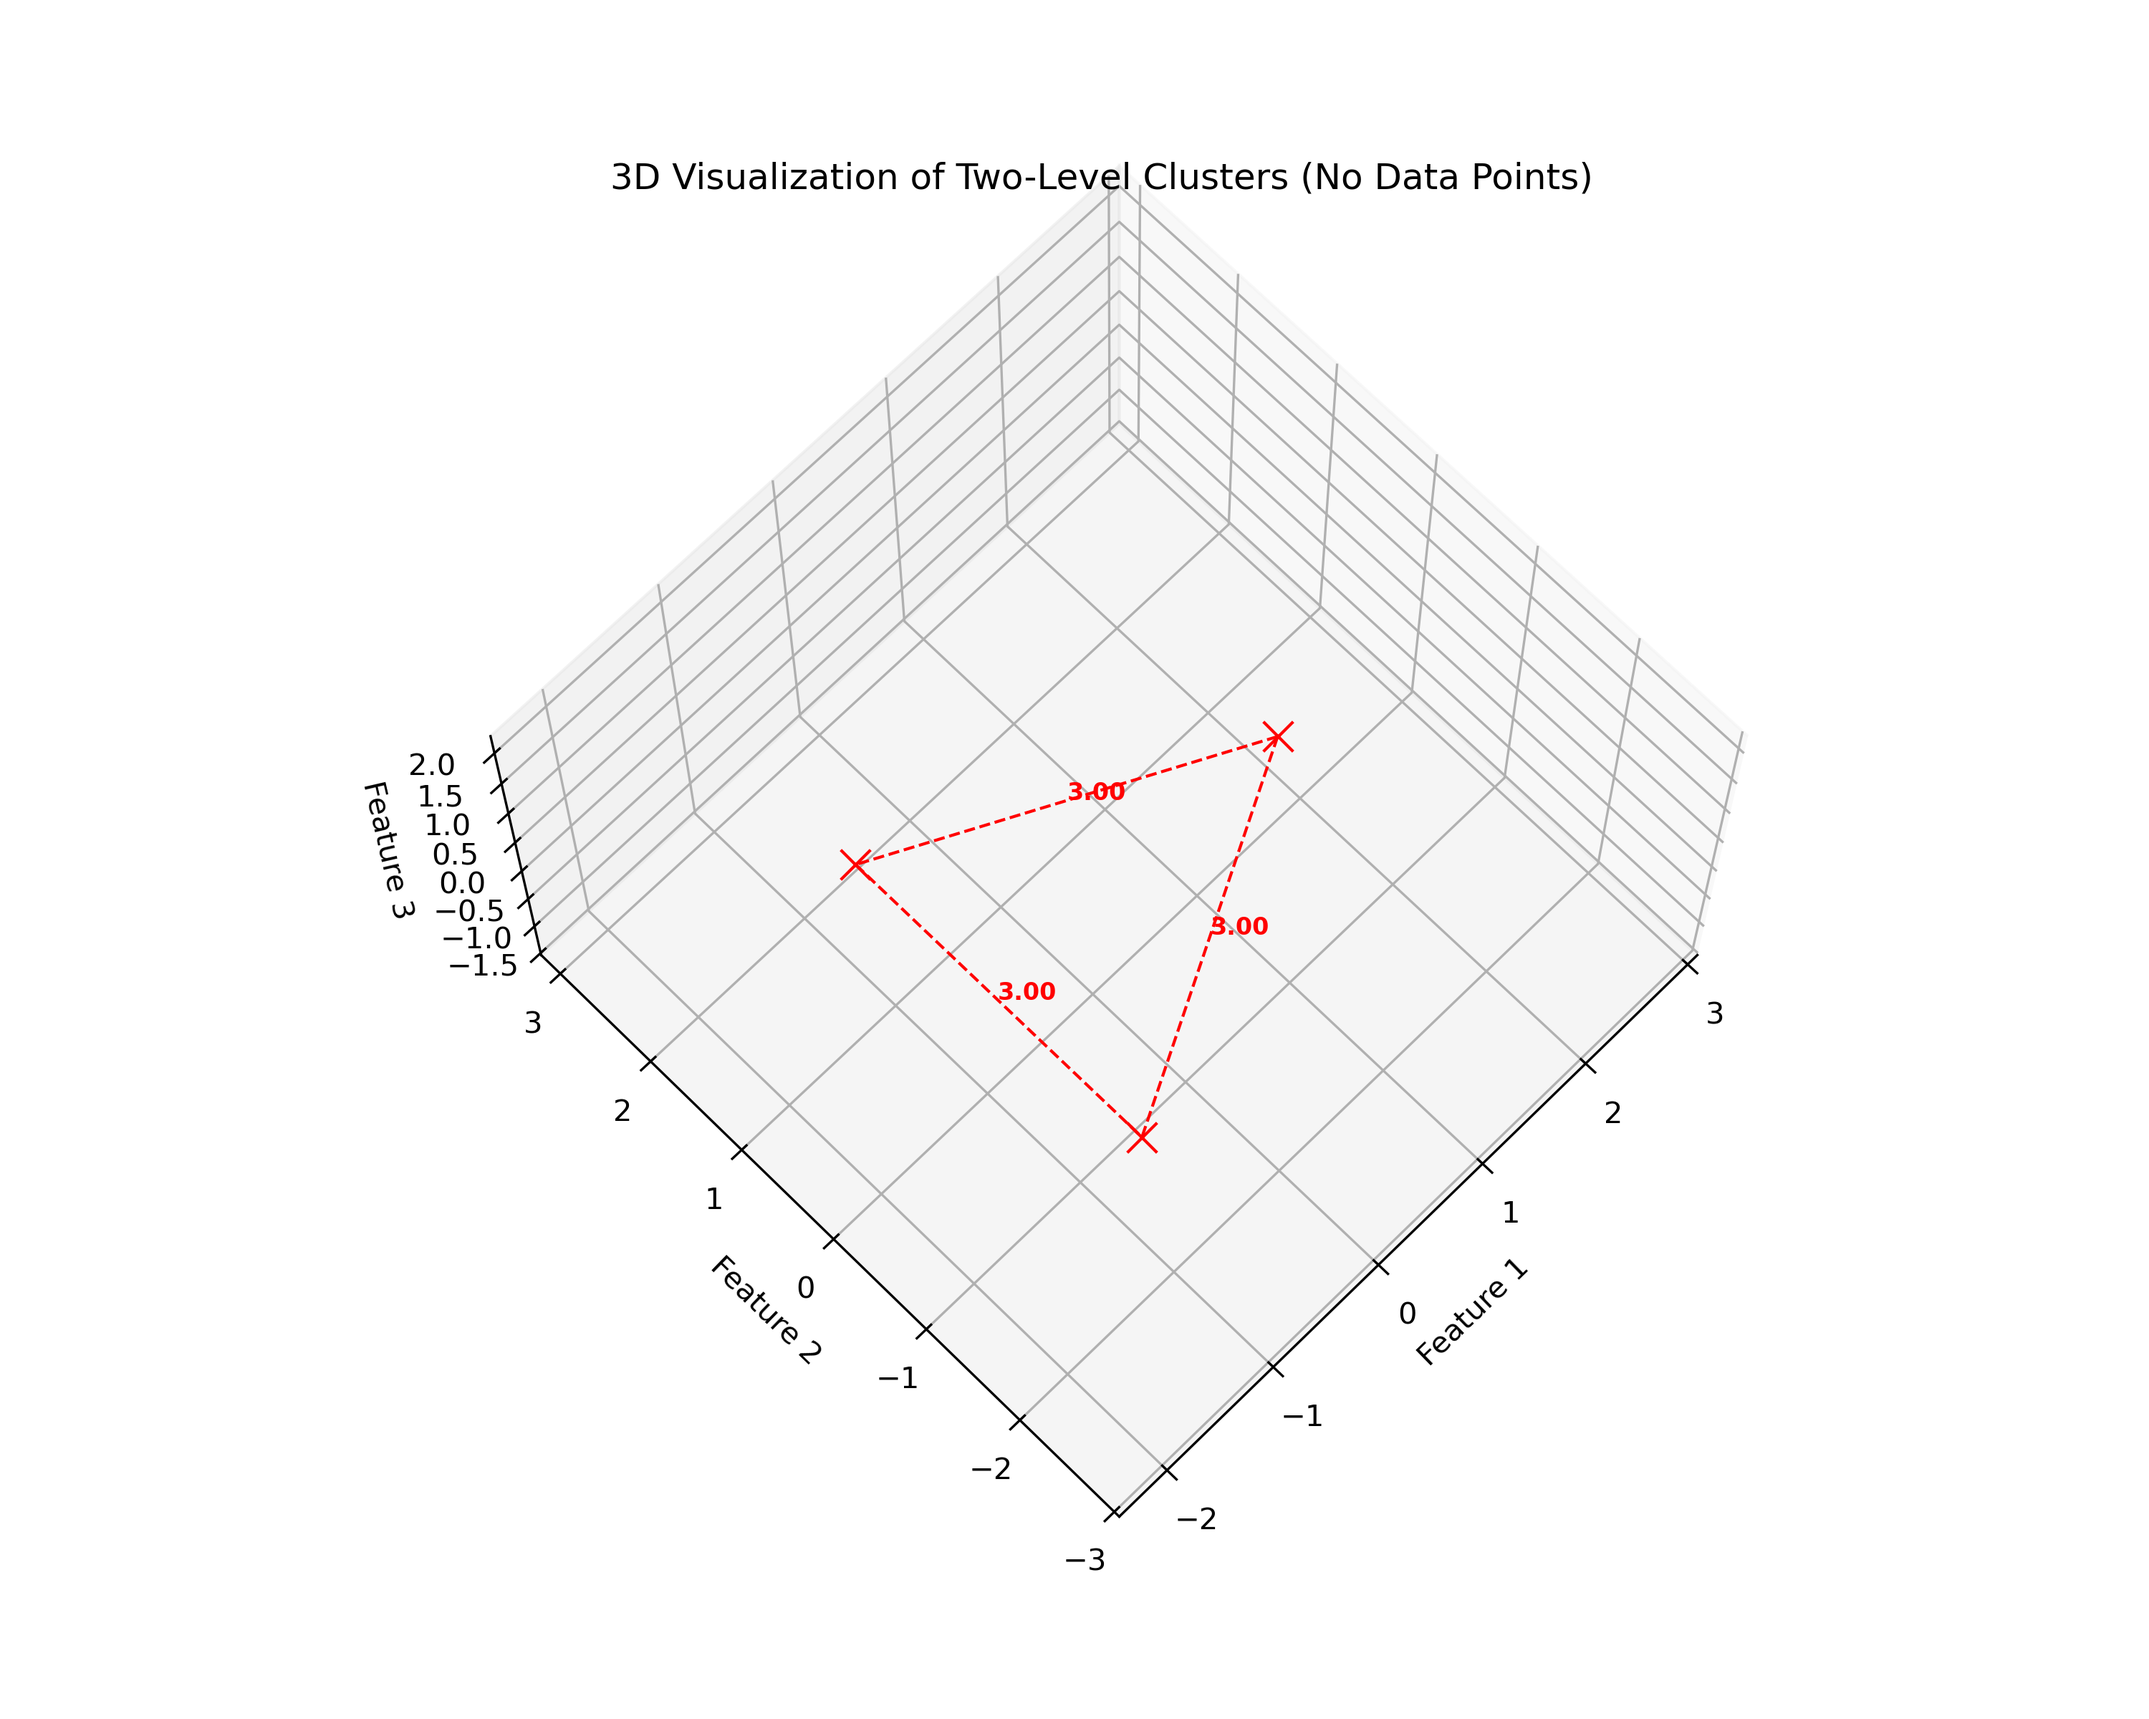
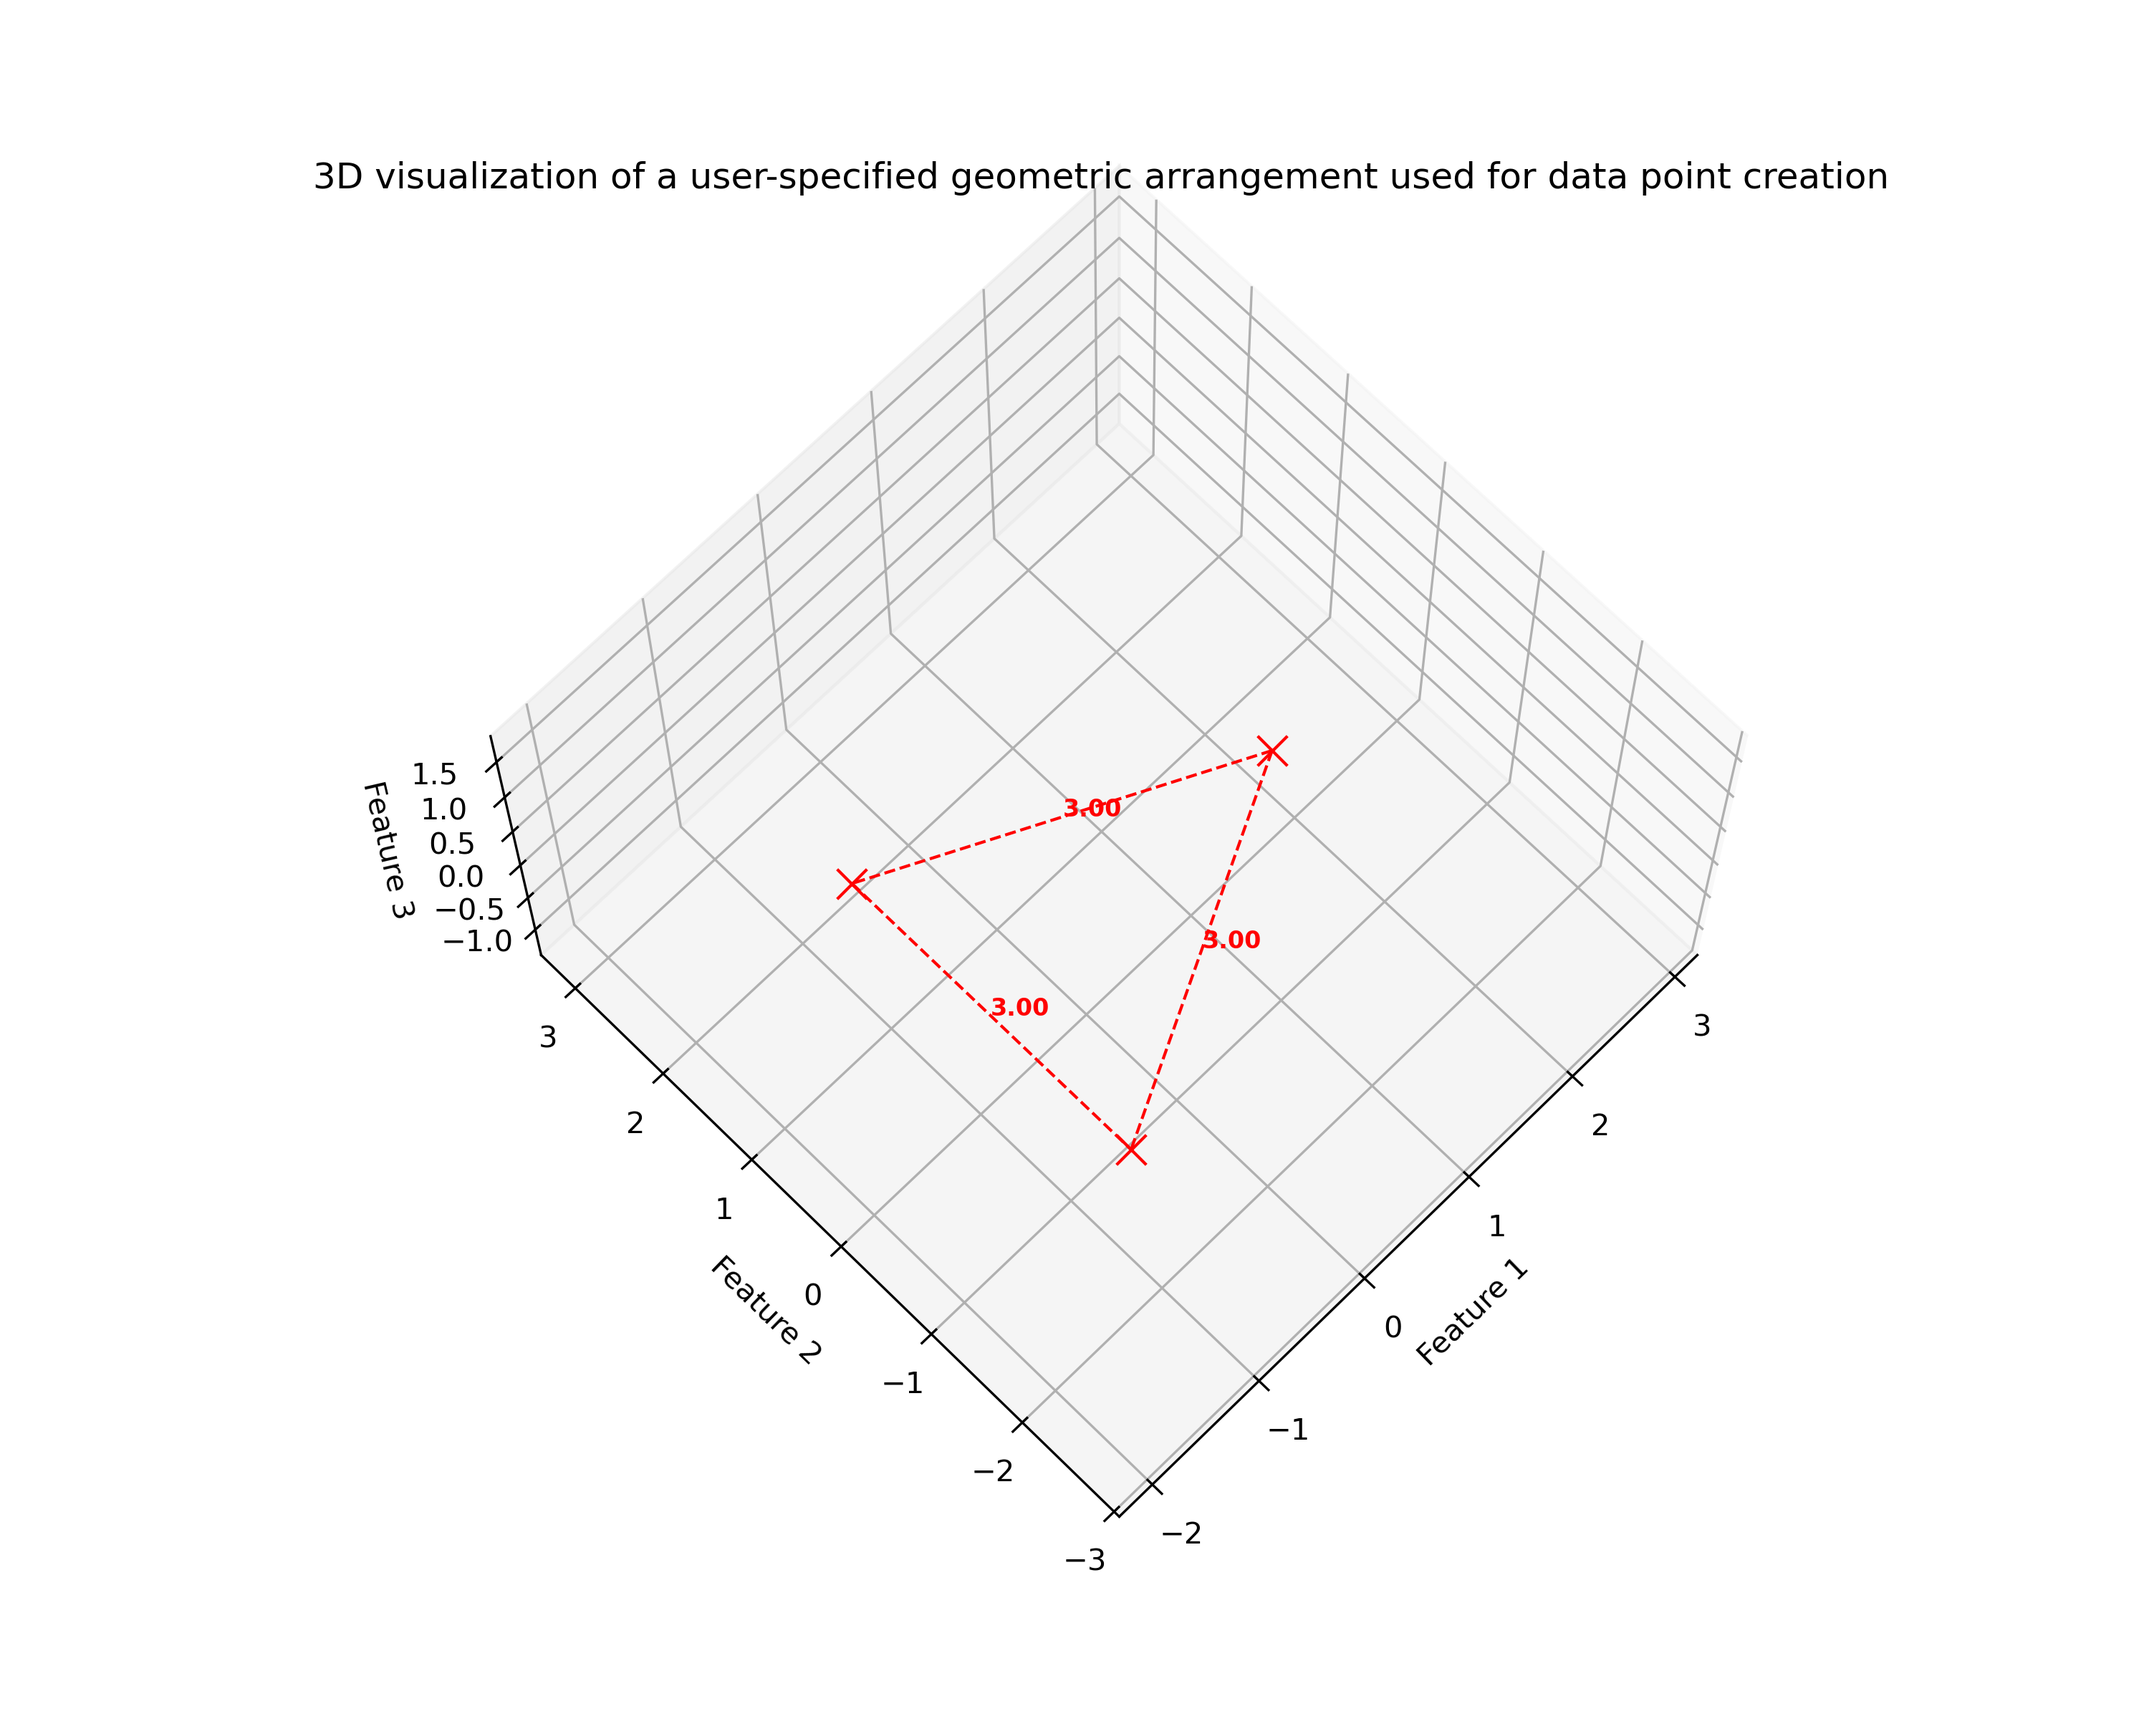
Edited demos and subsequent figures generarted

diff --git a/scripts/demo_two_level_clusters.py b/scripts/demo_two_level_clusters.py
@@ -83,7 +83,7 @@ FigureGenerator.plot_data(
     centroids,
     distance_matrix_levels,
     distance_matrix_global,
-    title="3D Visualization of Two-Level Clusters",
+    title="Similar to above, but data points are randomly generated from a specific distribution and overlaid",
     path_save=path_figure_file
 )
 
@@ -96,7 +96,7 @@ FigureGenerator.plot_data(
     centroids,
     distance_matrix_levels,
     distance_matrix_global,
-    title="3D Visualization of Two-Level Clusters (No Data Points)",
+    title="In this example, a user-defined two-level hierarchical geometry specifies how the generated data will be organized",
     path_save=path_figure_file_no_data,
     hide_data=True,
     axis_limits=FigureGenerator.axis_limits  # Use the saved axis limits

diff --git a/scripts/demo_one_level_three_clusters.py b/scripts/demo_one_level_three_clusters.py
@@ -74,7 +74,7 @@ FigureGenerator.plot_data(
     centroids,
     distance_matrix_levels,
     distance_matrix_global,
-    title="3D Visualization of Two-Level Clusters",
+    title="Similar to above but with synthetic data points overlaid using a customized, parameterized distribution",
     path_save=path_figure_file
 )
 
@@ -87,7 +87,7 @@ FigureGenerator.plot_data(
     centroids,
     distance_matrix_levels,
     distance_matrix_global,
-    title="3D Visualization of Two-Level Clusters (No Data Points)",
+    title="3D visualization of a user-specified geometric arrangement used for data point creation",
     path_save=path_figure_file_no_data,
     hide_data=True,
     axis_limits=FigureGenerator.axis_limits  # Use the saved axis limits
